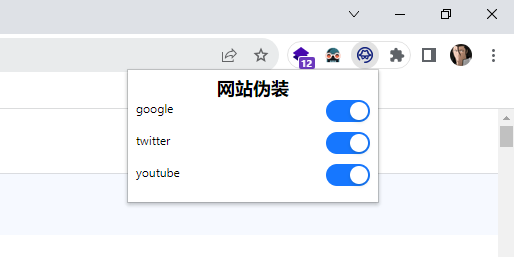
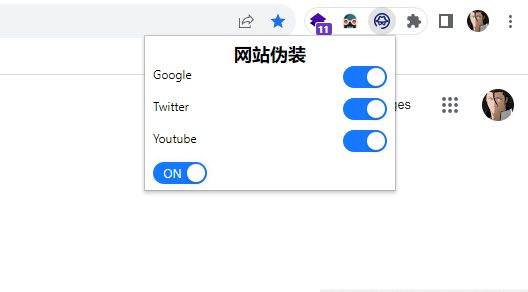
【feat】添加伪装的开启和关闭

Changed region(s): [[0.0, 0.0, 1.0, 0.8093], [0.0, 0.3424, 0.3735, 0.4981], [0.4047, 0.3113, 0.5603, 0.4047]]

diff --git a/src/App.tsx b/src/App.tsx
@@ -8,9 +8,9 @@ interface typeWebList {
 }
 
 const listMap = [
-    { name: 'google', value: 1 },
-    { name: 'twitter', value: 1 },
-    { name: 'youtube', value: 1 },
+    { name: 'Google', value: 1 },
+    { name: 'Twitter', value: 1 },
+    { name: 'Youtube', value: 1 },
 ]
 
 const setWebsiteListFn = (websiteList: typeWebList[]) => {
@@ -24,24 +24,43 @@ const setWebsiteListFn = (websiteList: typeWebList[]) => {
 }
 const WebList = () => {
     const [websiteList, setWebsiteList] = useState<typeWebList[]>([])
+    const [all, setAll] = useState(1)
 
     useEffect(() => {
         ;(async () => {
             const res = await chrome.storage.local.get('websiteList')
+            const resAll = await chrome.storage.local.get('allset')
 
             const target = res && res.websiteList ? res.websiteList : listMap
-            setWebsiteList(target)
+            const allsetValue = resAll && typeof resAll.allset == 'number' ? resAll.allset : 1
 
+            setWebsiteList(target)
             setWebsiteListFn(target)
+            setAll(allsetValue)
         })()
     }, [])
 
     function HanldeSwitch(index: number, item: typeWebList) {
+        if (all === 0) return
+
         item.value = item.value === 1 ? 0 : 1
         websiteList[index] = item
 
         setWebsiteListFn(websiteList)
         setWebsiteList([...websiteList])
+    }
+
+    function hanlelAllSwitch() {
+        let allset = all === 1 ? 0 : 1
+        setAll(allset)
+
+        chrome.storage.local.set({
+            allset,
+        })
+        chrome.runtime.sendMessage({
+            name: 'switchAll',
+            allset,
+        })
     }
 
     const list = websiteList.map((item, index) => (
@@ -51,11 +70,21 @@ const WebList = () => {
             onClick={() => HanldeSwitch(index, item)}
         >
             <span className='p-r-10 web-name'>{item.name}</span>
-            <Switch checked={item.value === 1}></Switch>
+            <Switch disabled={all === 0} checked={item.value === 1}></Switch>
         </div>
     ))
 
-    return <>{list}</>
+    return (
+        <>
+            {list}
+            <Switch
+                checkedChildren='ON'
+                unCheckedChildren='OFF'
+                checked={all === 1}
+                onChange={hanlelAllSwitch}
+            />
+        </>
+    )
 }
 const Hearder = () => {
     return <h3 className='title'>网站伪装</h3>

diff --git a/src/public/background.js b/src/public/background.js
@@ -50,12 +50,12 @@
 //     { name: 'youtube', value: 1 },
 // ]
 const webMap = {
-    google: {
-        id: 'google',
+    Google: {
+        id: 'google_id',
         option: [
             {
                 allFrames: false,
-                id: 'google',
+                id: 'google_id',
                 js: ['./page/google/index.js'],
                 css: ['./page/google/index.css'],
                 runAt: 'document_start',
@@ -65,27 +65,50 @@ const webMap = {
     },
 }
 const listMap = [
-    { name: 'google', value: 1 },
-    { name: 'twitter', value: 1 },
-    { name: 'youtube', value: 1 },
+    { name: 'Google', value: 1 },
+    { name: 'Twitter', value: 1 },
+    { name: 'Youtube', value: 1 },
 ]
 
 chrome.runtime.onInstalled.addListener(async () => {
     const res = await chrome.storage.local.get('websiteList')
-    const target = res && res.websiteList ? res.websiteList : listMap
+    const allset = await chrome.storage.local.get('allset')
 
-    calucateWebSize(target)
+    if (allset && allset === 1) {
+        // const target = res && res.websiteList ? res.websiteList : listMap
+        calucateWebSize(res.websiteList)
+    }
 })
 
-chrome.runtime.onMessage.addListener(function (message) {
+chrome.runtime.onMessage.addListener(async function (message) {
     if (message.name === 'switchClick') {
         const webList = message.websiteList
 
         calucateWebSize(webList)
+    } else if (message.name === 'switchAll') {
+        const setAll = message.allset
+
+        if (setAll === 1) {
+            const res = await chrome.storage.local.get('websiteList')
+            calucateWebSize(res.websiteList)
+        } else {
+            unregisterAllDynamicContentScripts()
+        }
     }
 })
 
+async function unregisterAllDynamicContentScripts() {
+    try {
+        const scripts = await chrome.scripting.getRegisteredContentScripts()
+        const scriptIds = scripts.map((script) => script.id)
+        return chrome.scripting.unregisterContentScripts({ ids: scriptIds })
+    } catch (error) {
+        console.log(error)
+    }
+}
+
 async function calucateWebSize(webList) {
+    webList = webList ? webList : listMap
     const scripts = await chrome.scripting.getRegisteredContentScripts()
 
     webList.forEach((item) => {

diff --git a/README.md b/README.md
@@ -1,4 +1,4 @@
-# 网站伪装
+# 网站伪装chrome插件：Camouflage-extension
 
 通过向网站插入js，css改变一个网站的外观
 
